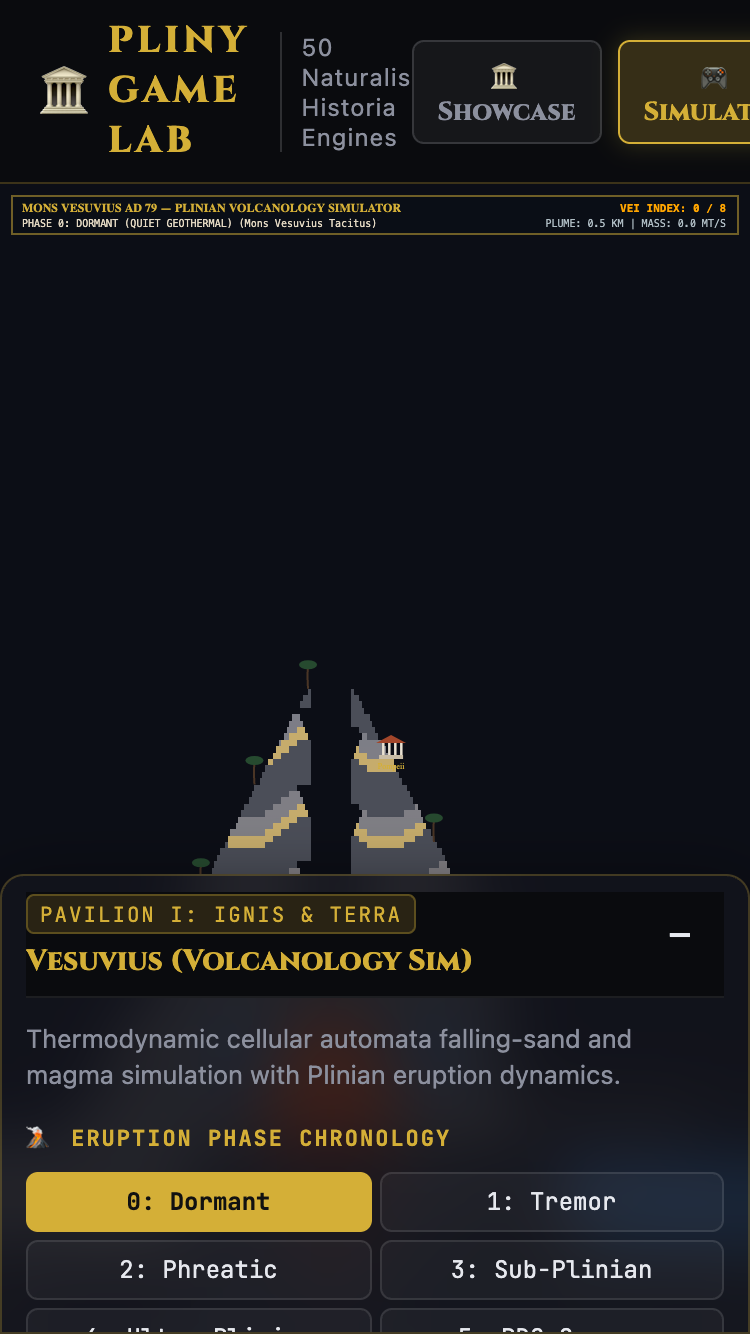
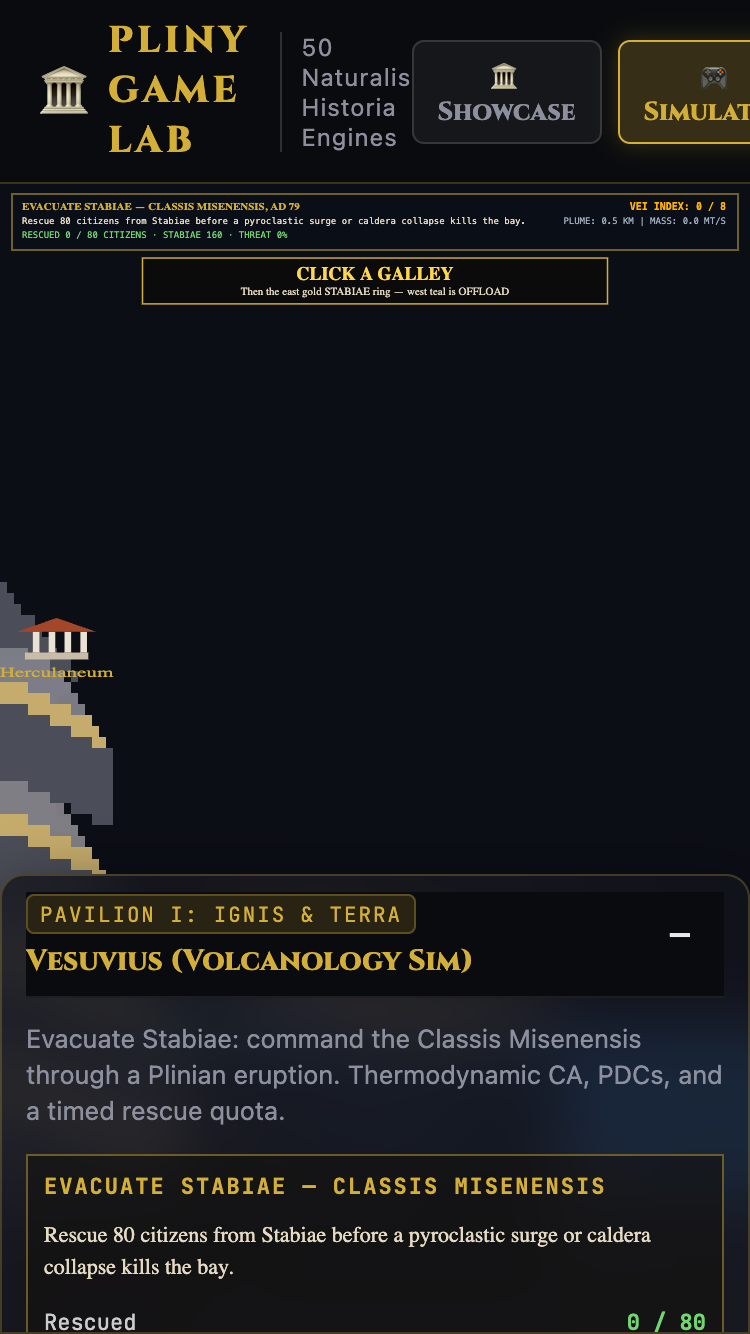
fix(vesuvius): address re-review feedback (lightning NaN, sandbox triggers, on-canvas HUD, right-click guard, balance)

diff --git a/tests/vesuvius-gameplay.js b/tests/vesuvius-gameplay.js
@@ -103,12 +103,12 @@ test('win when rescued quota is met before catastrophe', () => {
 
 test('meeting mission.quota resolves WON', () => {
   const m = createMission();
-  assert.equal(m.quota, 70);
+  assert.equal(m.quota, 80);
   m.rescued = m.quota;
   resolveMission(m, { ships: [{ alive: true, health: 80, cargo: 0 }], phase: 4 });
   assert.equal(m.status, STATUS.WON);
   assert.equal(m.quota, missionQuota());
-  assert.equal(m.quota, 70);
+  assert.equal(m.quota, 80);
   assert.ok(m.rescued >= m.quota);
 });
 
@@ -321,7 +321,7 @@ global.window = {
   }
 };
 
-const { VesuviusEngine, ELEMENT, PHASE } = await import('../src/demos/vesuvius/vesuvius.js');
+const { VesuviusEngine, ELEMENT, PHASE, VolcanicLightning } = await import('../src/demos/vesuvius/vesuvius.js');
 
 function makeEngine() {
   const canvas = new MockCanvas(800, 600);
@@ -534,9 +534,8 @@ test('any canvas click after victory restarts the mission', () => {
 });
 
 test('gameplay galleys draw larger than the 48px sprite at canvas scale', () => {
-  const scaleX = 1600 / 280;
-  const play = galleyDrawScale(scaleX, true, true);
-  const sand = galleyDrawScale(scaleX, true, false);
+  const play = galleyDrawScale(true);
+  const sand = galleyDrawScale(false);
   const view = missionWorldView(MODE.GAMEPLAY, 280, 180);
   const zoom = 280 / view.w;
   assert.ok(play > sand, `gameplay scale ${play} should exceed sandbox ${sand}`);
@@ -589,20 +588,20 @@ test('reaching quota resolves WON on engine and renders victory overlay', () => 
   ctx.texts = [];
   engine.render(ctx);
   assert.match(ctx.texts.join(' | '), /STABIAE SERVED/);
-  assert.match(ctx.texts.join(' | '), /Rescued 70 citizens/);
+  assert.match(ctx.texts.join(' | '), /Rescued 80 citizens/);
   engine.destroy();
 });
 
 test('venting does not rewind eruption phase or re-trigger entry effects', () => {
   const { engine } = makeEngine();
-  engine.mission.time = 40;
+  engine.mission.time = 26;
   engine.update(0.016);
   assert.equal(engine.currentPhase, PHASE.ULTRA_PLINIAN);
 
   const initialShockwaves = engine.shockwaves.length;
   const vented = engine.ventChamber();
   assert.equal(vented, true);
-  assert.equal(engine.mission.ventDelay, 10);
+  assert.equal(engine.mission.ventDelay, MISSION_NUMBERS.ventDelaySec);
   engine.update(0.016);
 
   assert.ok(engine.currentPhase >= PHASE.ULTRA_PLINIAN, `phase should not rewind, got ${engine.currentPhase}`);
@@ -610,11 +609,84 @@ test('venting does not rewind eruption phase or re-trigger entry effects', () =>
   engine.destroy();
 });
 
+test('volcanic lightning and shockwaves render with finite coordinates (no NaN)', () => {
+  const { engine, ctx } = makeEngine();
+  engine.triggerShockwave(100, 100, 50);
+  assert.ok(engine.shockwaves.length > 0);
+
+  const bolt = new VolcanicLightning(100, 100, 120, 150);
+  engine.lightningBolts.push(bolt);
+
+  const calls = [];
+  ctx.arc = (x, y, r) => {
+    assert.ok(Number.isFinite(x) && Number.isFinite(y) && Number.isFinite(r), `arc coords must be finite, got x=${x}, y=${y}, r=${r}`);
+    calls.push({ type: 'arc', x, y, r });
+  };
+  ctx.moveTo = (x, y) => {
+    assert.ok(Number.isFinite(x) && Number.isFinite(y), `moveTo coords must be finite, got x=${x}, y=${y}`);
+    calls.push({ type: 'moveTo', x, y });
+  };
+  ctx.lineTo = (x, y) => {
+    assert.ok(Number.isFinite(x) && Number.isFinite(y), `lineTo coords must be finite, got x=${x}, y=${y}`);
+    calls.push({ type: 'lineTo', x, y });
+  };
+
+  engine.renderVolcanicLightning(ctx, 800, 600);
+  engine.renderShockwaves(ctx, 800, 600);
+  assert.ok(calls.length > 0, 'lightning and shockwave path calls should execute');
+  engine.destroy();
+});
+
+test('sandbox phase buttons can be triggered repeatedly in any order', () => {
+  const { engine } = makeEngine();
+  engine.setPlayMode(MODE.SANDBOX);
+
+  const initialSurges = engine.pdcs.length;
+  engine.requestManualPhase(PHASE.COLUMN_COLLAPSE);
+  const surgesAfter1 = engine.pdcs.length;
+  assert.ok(surgesAfter1 > initialSurges, 'first column collapse triggers surges');
+
+  engine.requestManualPhase(PHASE.COLUMN_COLLAPSE);
+  const surgesAfter2 = engine.pdcs.length;
+  assert.ok(surgesAfter2 > surgesAfter1, 'second column collapse also triggers surges (not one-shot)');
+
+  const initialShock = engine.shockwaves.length;
+  engine.requestManualPhase(PHASE.ULTRA_PLINIAN);
+  assert.ok(engine.shockwaves.length > initialShock, 'ultra-plinian after collapse fires shockwaves');
+  engine.destroy();
+});
+
+test('right click context menu is disabled in gameplay mode but active in sandbox', () => {
+  const { engine } = makeEngine();
+  const { gx, gy } = engine.toSim({ x: 100, y: 100 });
+  const cellIdx = Math.floor(gy) * engine.simWidth + Math.floor(gx);
+  const origElem = engine.grid[cellIdx];
+  const initialShocks = engine.shockwaves.length;
+
+  engine.onContextMenu({ x: 100, y: 100 });
+  assert.equal(engine.grid[cellIdx], origElem, 'right-click in gameplay mode must not excavate crater');
+  assert.equal(engine.shockwaves.length, initialShocks, 'right-click in gameplay mode must not trigger shockwave');
+
+  engine.setPlayMode(MODE.SANDBOX);
+  engine.onContextMenu({ x: 100, y: 100 });
+  assert.ok(engine.shockwaves.length > initialShocks, 'right-click in sandbox mode triggers shockwave');
+  engine.destroy();
+});
+
+test('on-canvas HUD displays Evacuate Stabiae title, objective, and progress in gameplay mode', () => {
+  const { engine, ctx } = makeEngine();
+  ctx.texts = [];
+  engine.render(ctx);
+  const hud = ctx.texts.join(' | ');
+  assert.match(hud, /EVACUATE STABIAE — CLASSIS MISENENSIS/);
+  assert.match(hud, /Rescue 80 citizens/);
+  assert.match(hud, /RESCUED 0 \/ 80 CITIZENS/);
+  engine.destroy();
+});
+
 test('mission-mode plume budget stays under the ash-soup baseline', () => {
   const { engine } = makeEngine();
-  // Gameplay update() follows the mission clock, so jump to Ultra-Plinian
-  // rather than calling setEruptionPhase and watching tickGameplay revert it.
-  engine.mission.time = 38;
+  engine.mission.time = 26;
   engine.setEruptionPhase(PHASE.ULTRA_PLINIAN);
   engine.plumeHeightKm = 32;
   engine.targetPlumeKm = 32;

diff --git a/src/demos/vesuvius/vesuvius.js b/src/demos/vesuvius/vesuvius.js
@@ -1830,11 +1830,6 @@ export class VesuviusEngine {
     if (btnSandbox) btnSandbox.addEventListener('click', () => this.setPlayMode(MODE.SANDBOX));
 
     this.syncMissionHud();
-    this.syncGameplayChrome();
-  }
-
-  syncGameplayChrome() {
-    // Hint overlay is managed by hub.js and displays gameplay keybindings.
   }
 
   // ==========================================================================
@@ -2011,7 +2006,6 @@ export class VesuviusEngine {
       const sandbox = this.controlsContainer.querySelector('#sandbox-tools');
       if (sandbox && mode === MODE.SANDBOX) sandbox.open = true;
     }
-    this.syncGameplayChrome();
   }
 
   requestManualPhase(phaseIndex) {
@@ -2346,15 +2340,13 @@ export class VesuviusEngine {
     this.audio.ensureContext();
     this.audio.setRumbleIntensity(config.seismicTremor);
 
-    if (phaseIndex > oldPhase) {
-      if (phaseIndex === PHASE.PHREATOMAGMATIC || phaseIndex === PHASE.ULTRA_PLINIAN) {
-        this.triggerShockwave(this.ventX, this.ventY, 95);
-        this.audio.playExplosion(1.2);
-      } else if (phaseIndex === PHASE.COLUMN_COLLAPSE) {
-        this.triggerColumnCollapseSurges();
-      } else if (phaseIndex === PHASE.CALDERA_COLLAPSE) {
-        this.triggerCalderaCollapse();
-      }
+    if (phaseIndex === PHASE.PHREATOMAGMATIC || phaseIndex === PHASE.ULTRA_PLINIAN) {
+      this.triggerShockwave(this.ventX, this.ventY, 95);
+      this.audio.playExplosion(1.2);
+    } else if (phaseIndex === PHASE.COLUMN_COLLAPSE) {
+      this.triggerColumnCollapseSurges();
+    } else if (phaseIndex === PHASE.CALDERA_COLLAPSE) {
+      this.triggerCalderaCollapse();
     }
 
     // Update UI button states if container exists
@@ -3275,7 +3267,7 @@ export class VesuviusEngine {
     const scaleY = h / this.simHeight;
     const gameplay = this.mission && this.mission.mode === MODE.GAMEPLAY;
     for (const galley of this.fleet) {
-      const spriteScale = galleyDrawScale(scaleX, galley.isFlagship, gameplay);
+      const spriteScale = galleyDrawScale(gameplay);
       galley.render(ctx, scaleX, scaleY, spriteScale);
       if (gameplay && galley.alive) {
         ctx.save();
@@ -3333,14 +3325,18 @@ export class VesuviusEngine {
   }
 
   renderVolcanicLightning(ctx, w, h) {
+    const scaleX = w / this.simWidth;
+    const scaleY = h / this.simHeight;
     for (const bolt of this.lightningBolts) {
-      bolt.render(ctx);
+      bolt.render(ctx, scaleX, scaleY);
     }
   }
 
   renderShockwaves(ctx, w, h) {
+    const scaleX = w / this.simWidth;
+    const scaleY = h / this.simHeight;
     for (const s of this.shockwaves) {
-      s.render(ctx);
+      s.render(ctx, scaleX, scaleY);
     }
   }
 
@@ -3355,19 +3351,27 @@ export class VesuviusEngine {
     ctx.save();
 
     // 1. Top Bar: Title & Eruption Status
-    ctx.fillStyle = 'rgba(10, 14, 22, 0.82)';
-    ctx.fillRect(12, 10, w - 24, 40);
+    ctx.fillStyle = 'rgba(10, 14, 22, 0.85)';
+    const barH = gameplayHud ? 56 : 40;
+    ctx.fillRect(12, 10, w - 24, barH);
     ctx.strokeStyle = '#D4AF37';
     ctx.lineWidth = 1;
-    ctx.strokeRect(12, 10, w - 24, 40);
+    ctx.strokeRect(12, 10, w - 24, barH);
 
     ctx.fillStyle = '#D4AF37';
-    ctx.font = 'bold 10px monospace';
-    ctx.fillText('MONS VESUVIUS AD 79 — PLINIAN VOLCANOLOGY SIMULATOR', 22, 26);
+    ctx.font = 'bold 11px serif';
+    ctx.fillText(gameplayHud ? 'EVACUATE STABIAE — CLASSIS MISENENSIS, AD 79' : 'MONS VESUVIUS AD 79 — PLINIAN VOLCANOLOGY SIMULATOR', 22, 26);
 
     ctx.fillStyle = '#E5DAC4';
     ctx.font = '9px monospace';
-    ctx.fillText(`PHASE ${this.currentPhase}: ${config.name.toUpperCase()} (${config.latin})`, 22, 40);
+    if (gameplayHud) {
+      ctx.fillText(this.mission.objective, 22, 40);
+      const threat = threatMeter(this.mission, this.currentPhase, pdcHitsX(this.pdcs, MISSION_NUMBERS.stabiaeX, MISSION_NUMBERS.pdcTownRadius));
+      ctx.fillStyle = '#72D572';
+      ctx.fillText(`RESCUED ${Math.floor(this.mission.rescued)} / ${this.mission.quota} CITIZENS · STABIAE ${Math.ceil(this.mission.civiliansAtStabiae)} · THREAT ${Math.round(threat * 100)}%`, 22, 54);
+    } else {
+      ctx.fillText(`PHASE ${this.currentPhase}: ${config.name.toUpperCase()} (${config.latin})`, 22, 40);
+    }
 
     // Top Bar Right: VEI & Plume Telemetry
     ctx.textAlign = 'right';
@@ -3722,6 +3726,7 @@ export class VesuviusEngine {
   }
 
   onContextMenu(pos) {
+    if (this.mission && this.mission.mode === MODE.GAMEPLAY) return;
     // Localized Phreatomagmatic blast trigger on right click
     const { gx, gy } = this.toSim(pos);
     this.triggerShockwave(Math.floor(gx), Math.floor(gy), 45);
@@ -3868,8 +3873,6 @@ export class VesuviusEngine {
   }
 
   destroy() {
-    this.mission = this.mission ? { ...this.mission, mode: MODE.SANDBOX } : createMission(MODE.SANDBOX);
-    this.syncGameplayChrome();
     detachTouchBridge(this, this.canvas);
     if (this.controlsContainer) {
       this.controlsContainer.innerHTML = '';

diff --git a/src/demos/vesuvius/mission.js b/src/demos/vesuvius/mission.js
@@ -39,7 +39,7 @@ export const TOOL = {
 };
 
 export const OBJECTIVE =
-  'Rescue 70 citizens from Stabiae before a pyroclastic surge or caldera collapse kills the bay.';
+  'Rescue 80 citizens from Stabiae before a pyroclastic surge or caldera collapse kills the bay.';
 
 export const READABILITY = {
   galleyHitRadius: 18,
@@ -56,9 +56,8 @@ export const READABILITY = {
 
 export const GALLEY_SPRITE_SCALE = 1.25;
 
-export function galleyDrawScale(scaleX, isFlagship, gameplay) {
-  const isGame = typeof scaleX === 'boolean' ? scaleX : Boolean(gameplay);
-  return isGame ? GALLEY_SPRITE_SCALE : 1;
+export function galleyDrawScale(isGameplay) {
+  return isGameplay ? GALLEY_SPRITE_SCALE : 1;
 }
 
 export function missionWorldView(mode, simWidth, simHeight) {
@@ -87,17 +86,17 @@ export function missionCoachCopy(hasShip) {
 }
 
 export const MISSION_NUMBERS = {
-  rescueQuota: 70,
+  rescueQuota: 80,
   startingCivilians: 160,
   ventCharges: 3,
   barrierCharges: 4,
-  shipCapacity: 20,
+  shipCapacity: 18,
   pickupRate: 7.5,
   offloadRate: 14,
   pdcCivilianKillRate: 22,
   pdcShipDamageRate: 32,
   pumiceShipDamageRate: 6,
-  ventDelaySec: 10,
+  ventDelaySec: 9,
   ventPressureBleed: 18,
   pickupRadius: 16,
   offloadRadius: 18,
@@ -111,12 +110,12 @@ export const MISSION_NUMBERS = {
 
 export const PHASE_SCHEDULE = [
   { at: 0, phase: 0 },
-  { at: 7, phase: 1 },
-  { at: 16, phase: 2 },
-  { at: 26, phase: 3 },
-  { at: 38, phase: 4 },
-  { at: 52, phase: 5 },
-  { at: 72, phase: 6 }
+  { at: 4, phase: 1 },
+  { at: 9, phase: 2 },
+  { at: 15, phase: 3 },
+  { at: 24, phase: 4 },
+  { at: 33, phase: 5 },
+  { at: 55, phase: 6 }
 ];
 
 export function createMission(mode = MODE.GAMEPLAY) {

diff --git a/tests/vesuvius-browser-smoke.js b/tests/vesuvius-browser-smoke.js
@@ -155,7 +155,7 @@ const overlay = await page.evaluate(() => {
   return { status: e.mission.status, quota: e.mission.quota, hasButton: !!e.overlayButton };
 });
 assert.equal(overlay.status, 'won');
-assert.equal(overlay.quota, 70);
+assert.equal(overlay.quota, 80);
 assert.equal(overlay.hasButton, true);
 await page.screenshot({ path: path.join(OUT, '03_win_overlay.png') });
 console.log('   captured 03_win_overlay.png');

diff --git a/.agent/CONTINUITY.md b/.agent/CONTINUITY.md
@@ -31,6 +31,7 @@
 - 2026-09-16T17:03:00-04:00 [CODE] Deployed live to GitHub Pages at https://obsesivegamer.github.io/pliny-game-lab/. Created public repository `obsesivegamer/pliny-game-lab`, configured `.nojekyll`, staged `assets/screenshots/`, added Open Graph / Twitter Card social preview metadata, authored `README.md`, and added topics. Verified 100% clean live over HTTPS with Puppeteer (0 console errors).
 - 2026-09-19T15:53:00-04:00 [CODE] Evaluated, visually verified, and squash-merged PR #3 (`fix: desktop controls panel can expand after collapse`, commit `666a21b`). Added hanging gold `+` tab on `#controls-panel.collapsed` on desktop (`@media (min-width: 769px)`), and landed `tests/panel-toggle-qa.js`. Verified clean across desktop (1280x800, 1920x1080), tablet (820x1180), and mobile (375x667). All 7 QA suites 100% green.
 - 2026-09-19T16:36:00-04:00 [CODE] Addressed all 10 items from Claude review on PR #2 ('Evacuate Stabiae: Vesuvius gameplay loop', branch 'cursor/vesuvius-evacuate-stabiae-6ed5'). Fixed phase rewinding on controlled vent (monotonic target), prevented missed clicks from dumping lava into the bay, rebalanced loop tension (quota 70, capacity 20, requiring multi-trip evacuation through eruption phases), added persistent vent pressure relief, auto-disarmed berm tool, single-sourced mission.quota, hit-tested overlayButton, fixed zoom text scaling, and aligned AGENTS.md/codex.js docs. Merged origin/main cleanly, resolved mergeable state to MERGEABLE, marked PR ready for review, and verified all 7 test suites 100% green.
+- 2026-09-19T16:45:00-04:00 [CODE] Addressed all 7 items from Claude re-review #2 on PR #2. Fixed volcanic lightning and shockwave NaN coordinates by passing canvas scale factors; restored repeated sandbox catastrophe phase triggers by removing monotonicity guard from shared engine method; restored on-canvas mission HUD readout (title, objective, citizen rescue count); disabled right-click blast trigger during mission mode; cleaned up syncGameplayChrome() and destroy() leftovers; simplified galleyDrawScale(isGameplay); tightened mission balance (quota 80, capacity 18, 9s vent delay, trip 2 hits Phase 4/5 eruption tension). Added full test coverage in tests/vesuvius-gameplay.js and verified clean across all 7 suites (41/41 unit/integration, browser smoke, 50/50 headless, 50/50 visual QA, showcase, codex, audio).
 
 ## [DISCOVERIES]
 - 2026-09-15T20:19:00-04:00 [TOOL] Headless Node simulation requires guarding controlsContainer and DOM queries with typeof document !== 'undefined'.
